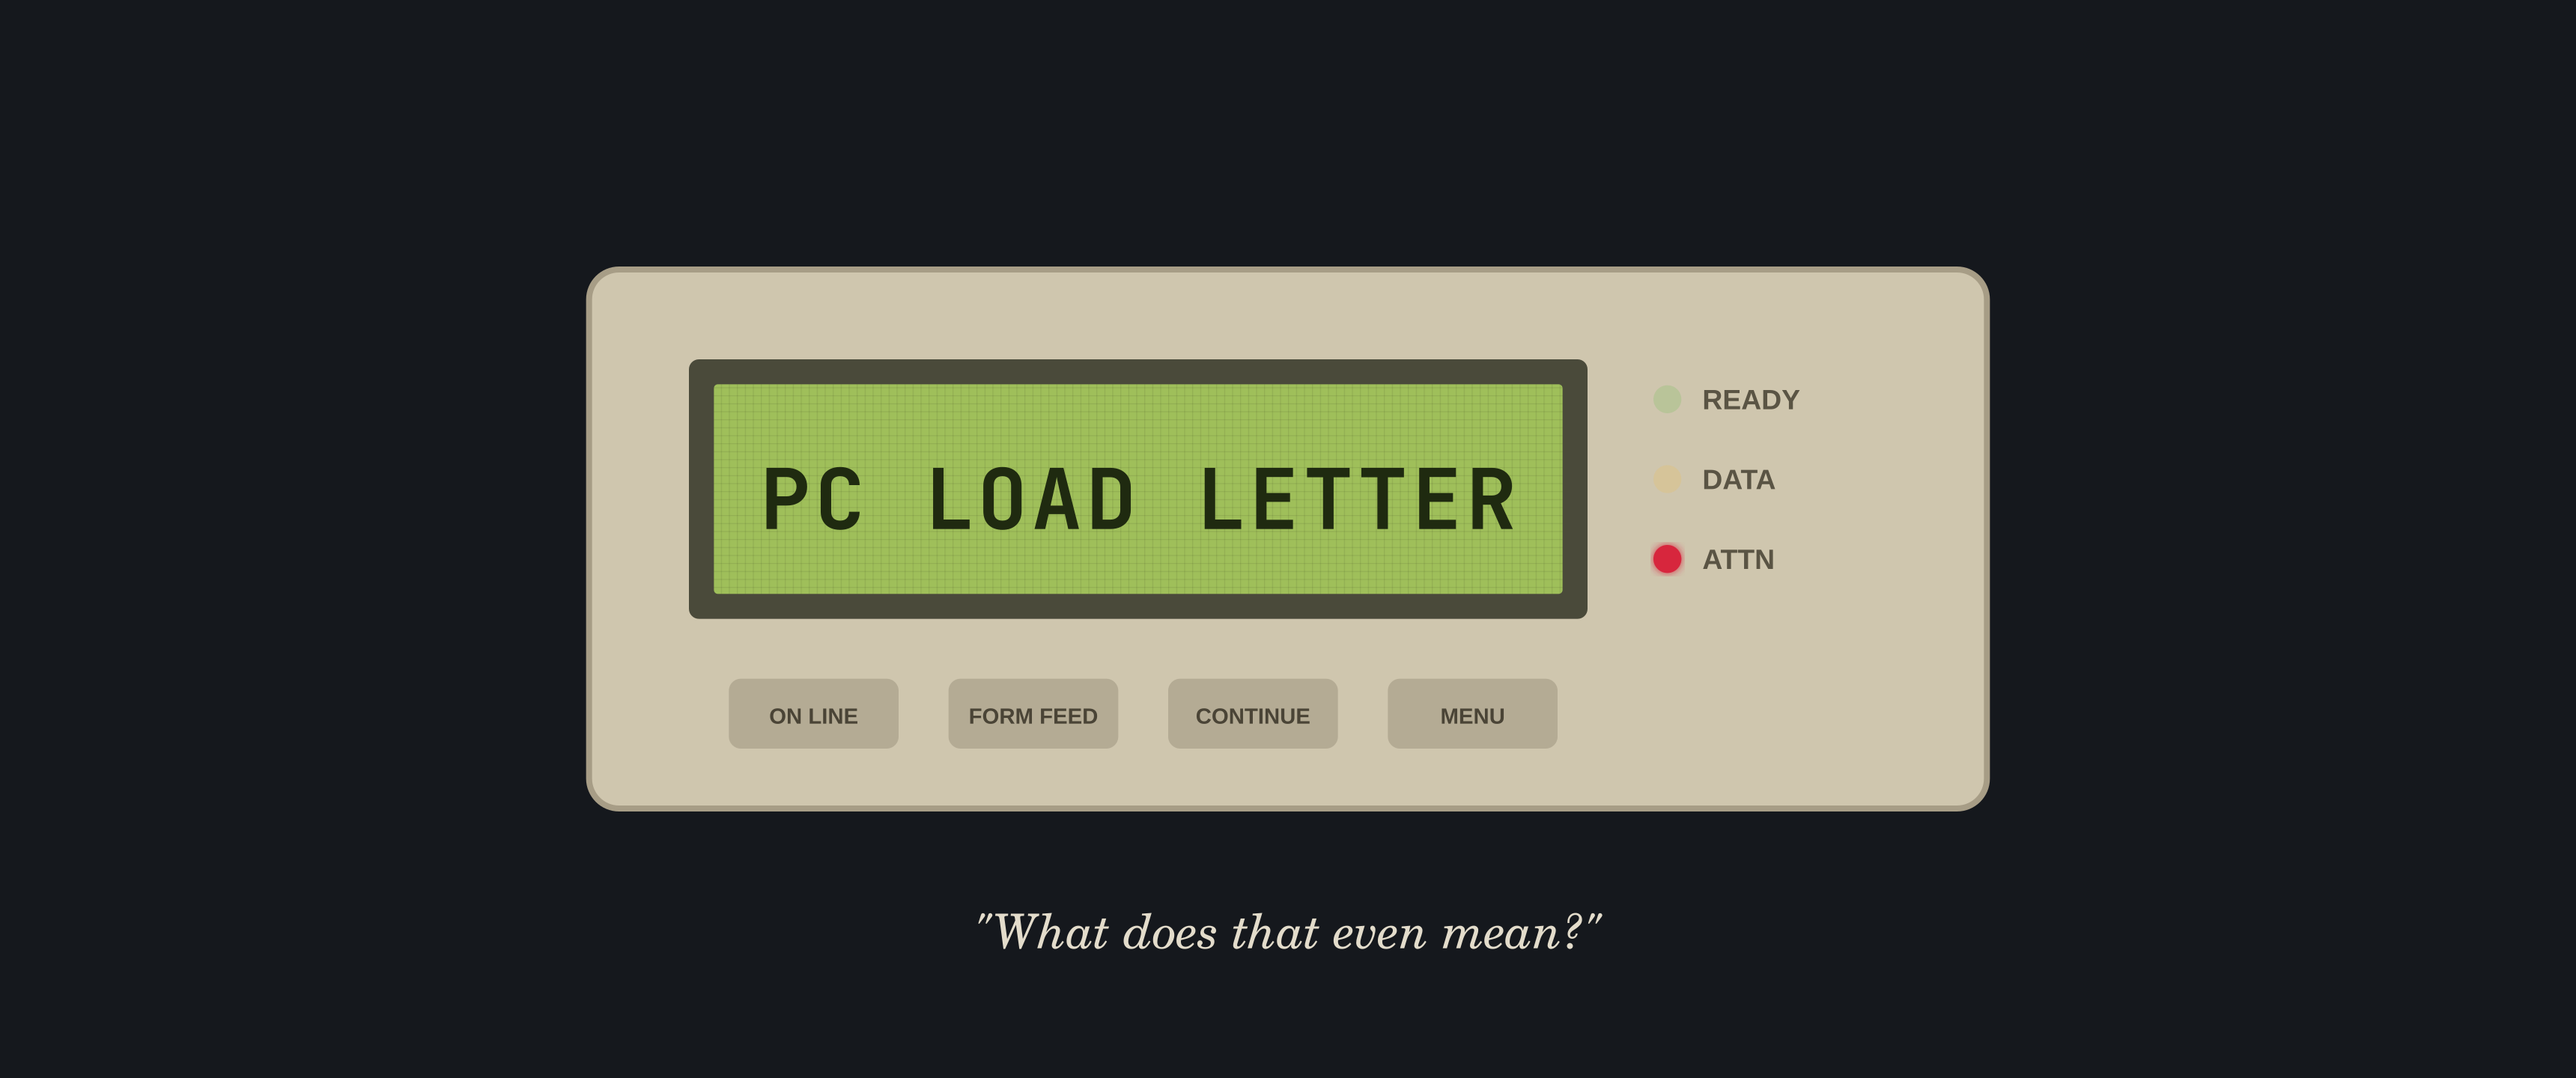
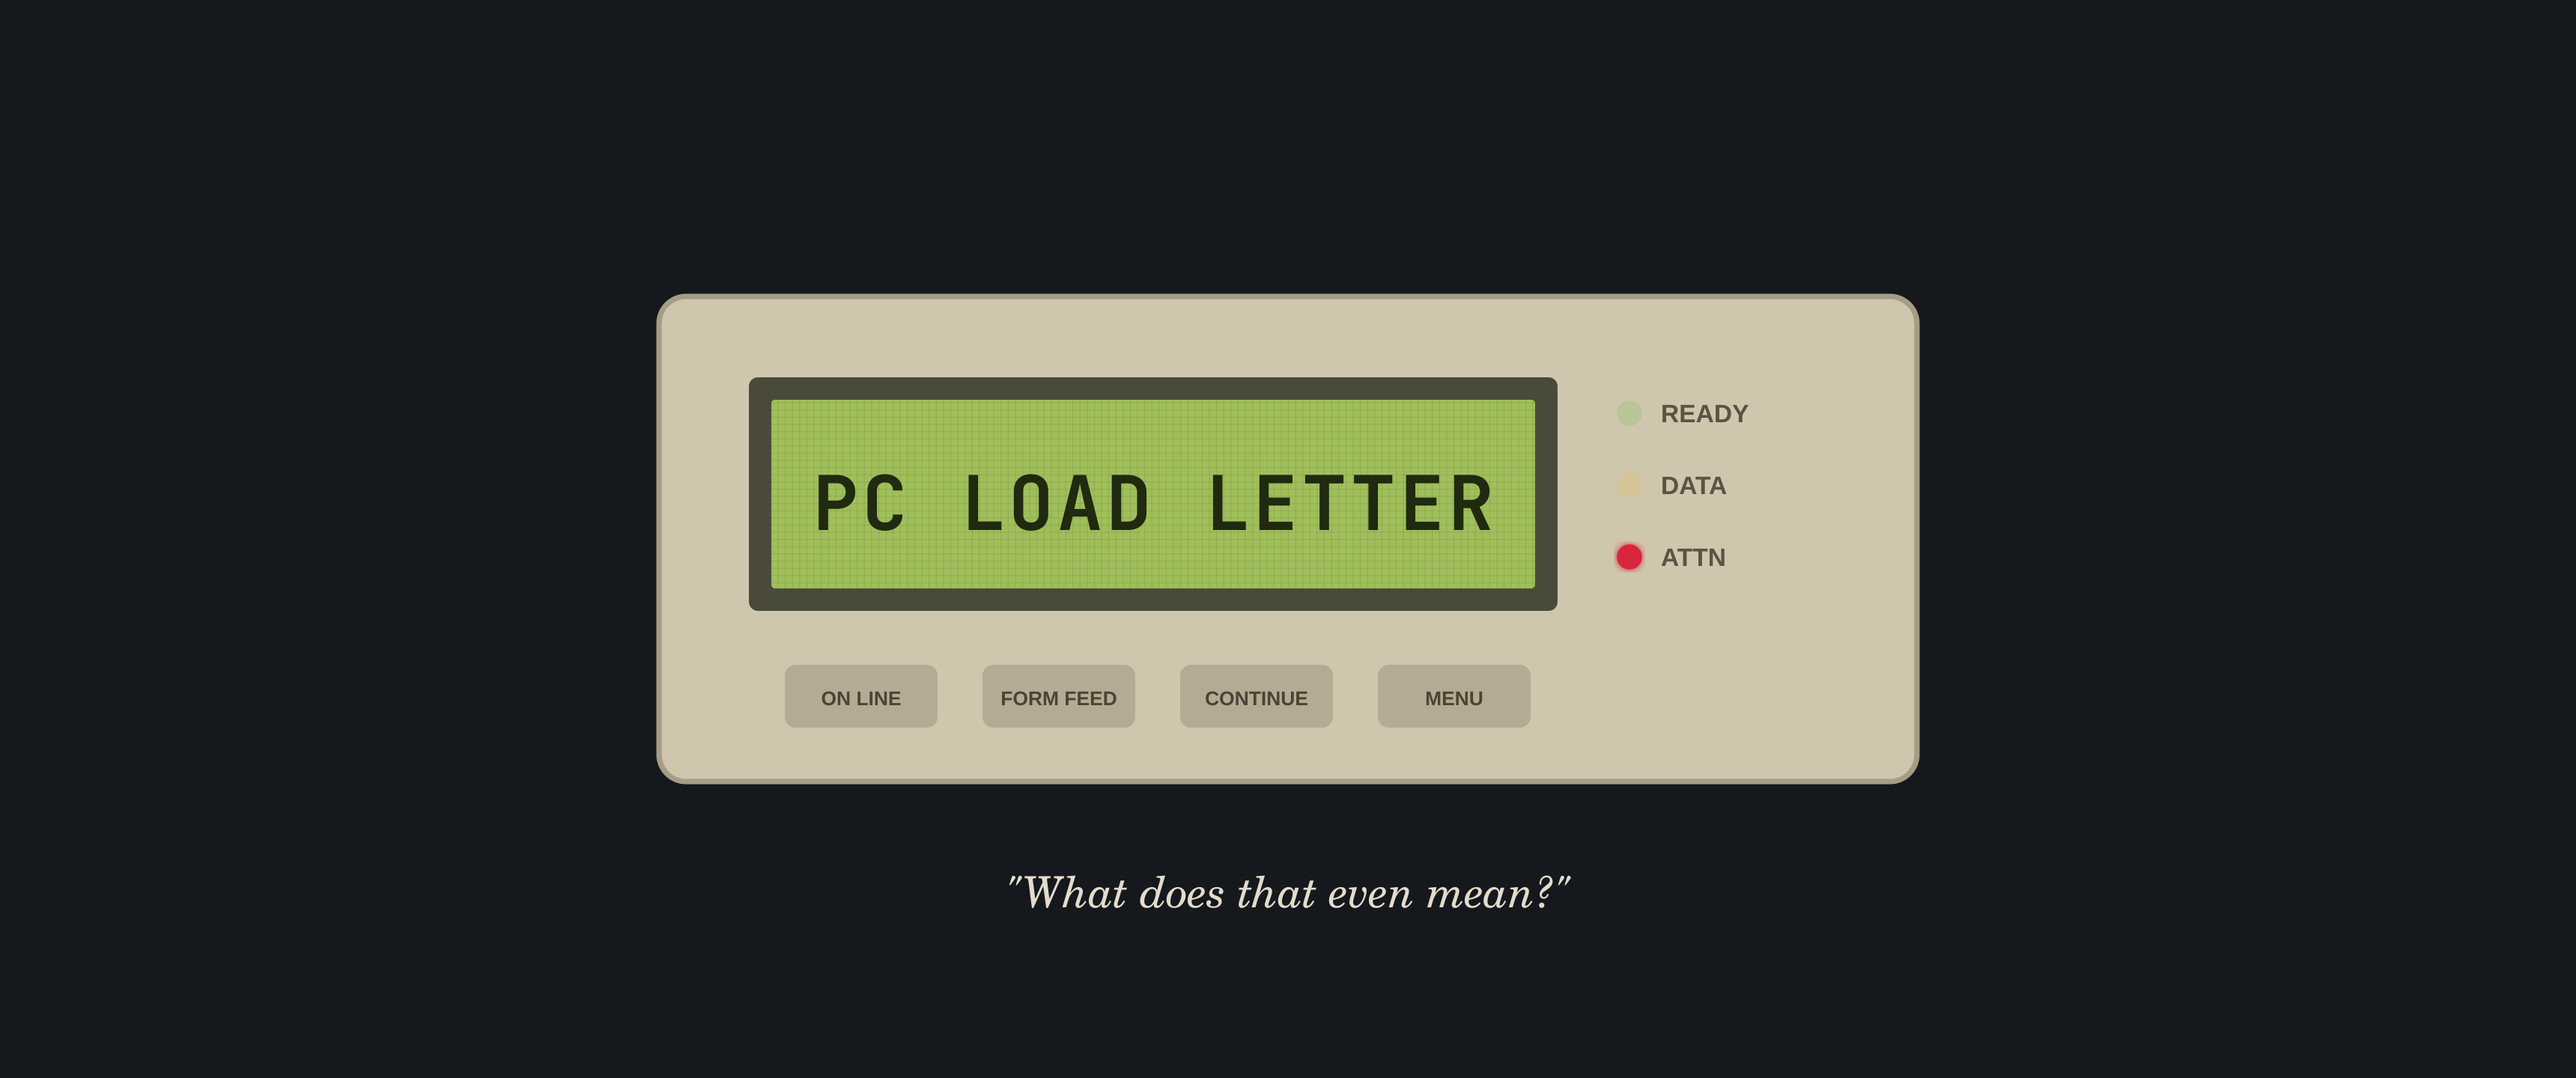
Use one full-height ultrawide version of each wallpaper
Drops the 16x9- copies and re-renders each background at 3440x1440
from its full 1200-tall design, widened rather than trimmed, so
nothing is cropped top or bottom on an ultrawide monitor.

diff --git a/README.md b/README.md
@@ -10,6 +10,6 @@ A dark [Omarchy](https://omarchy.org) theme for *Office Space*: cubicle-fabric s
 omarchy theme install https://github.com/badger2k/omarchy-initech-theme
 ```
 
-The backgrounds are original illustrations made for this theme. Each comes in two sizes: 3440×1440 ultrawide, and 2560×1440 (16:9) in the files prefixed `16x9-`.
+The backgrounds are original illustrations made for this theme, sized 3440×1440 for ultrawide monitors.
 
 ![Initech lock screen](preview-unlock.png)
